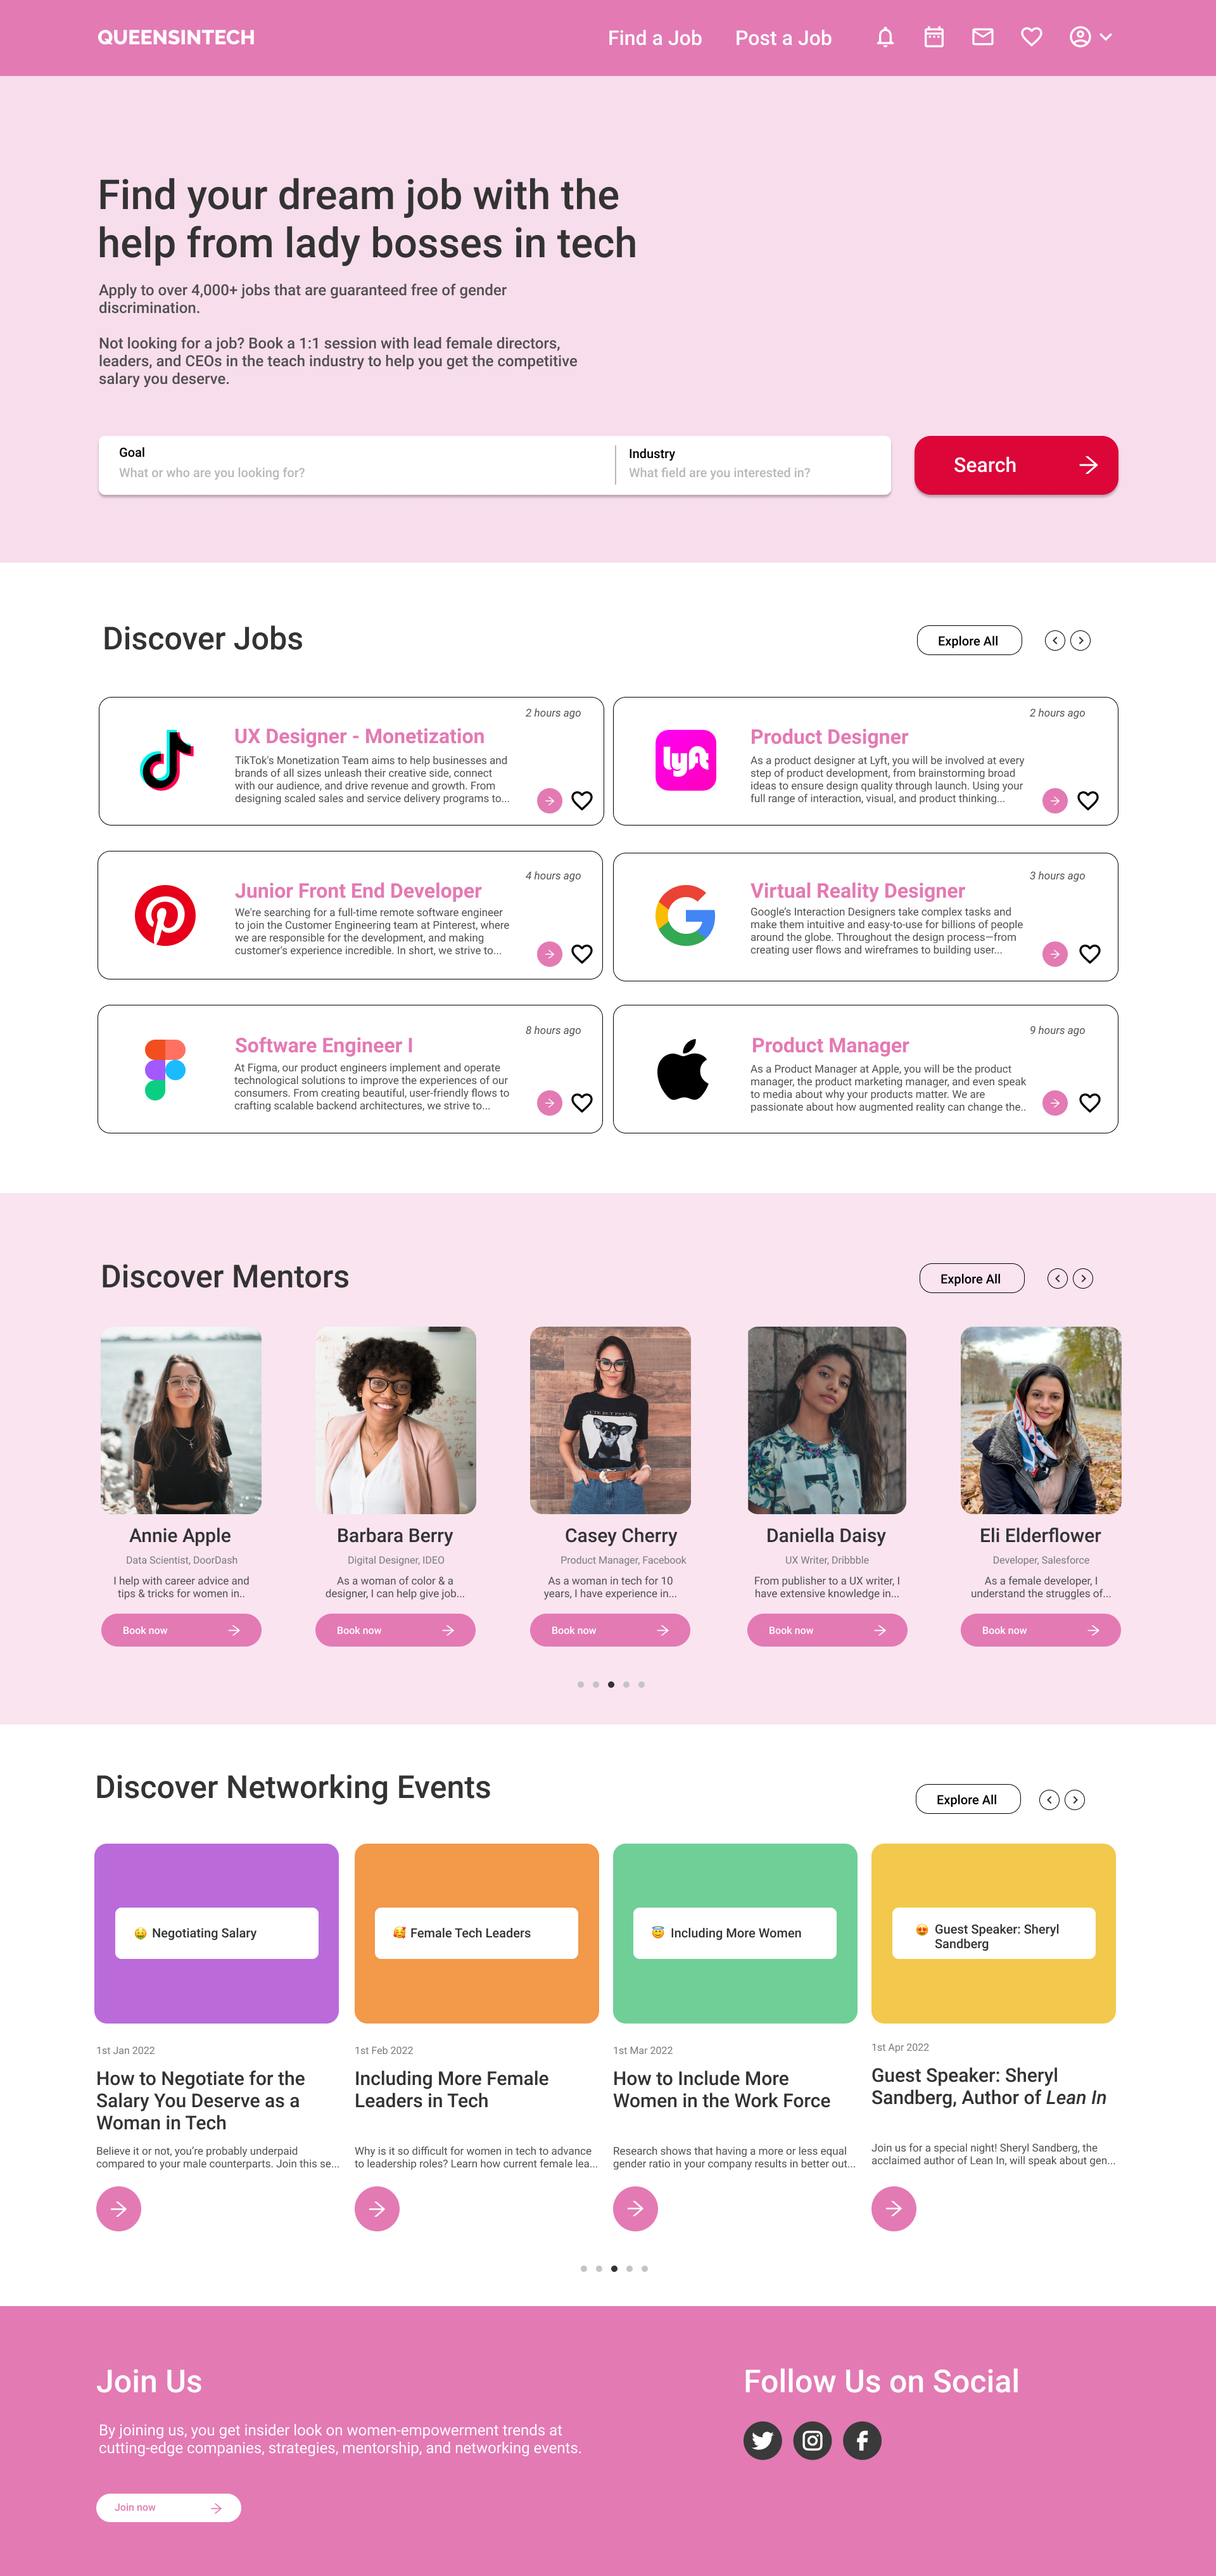
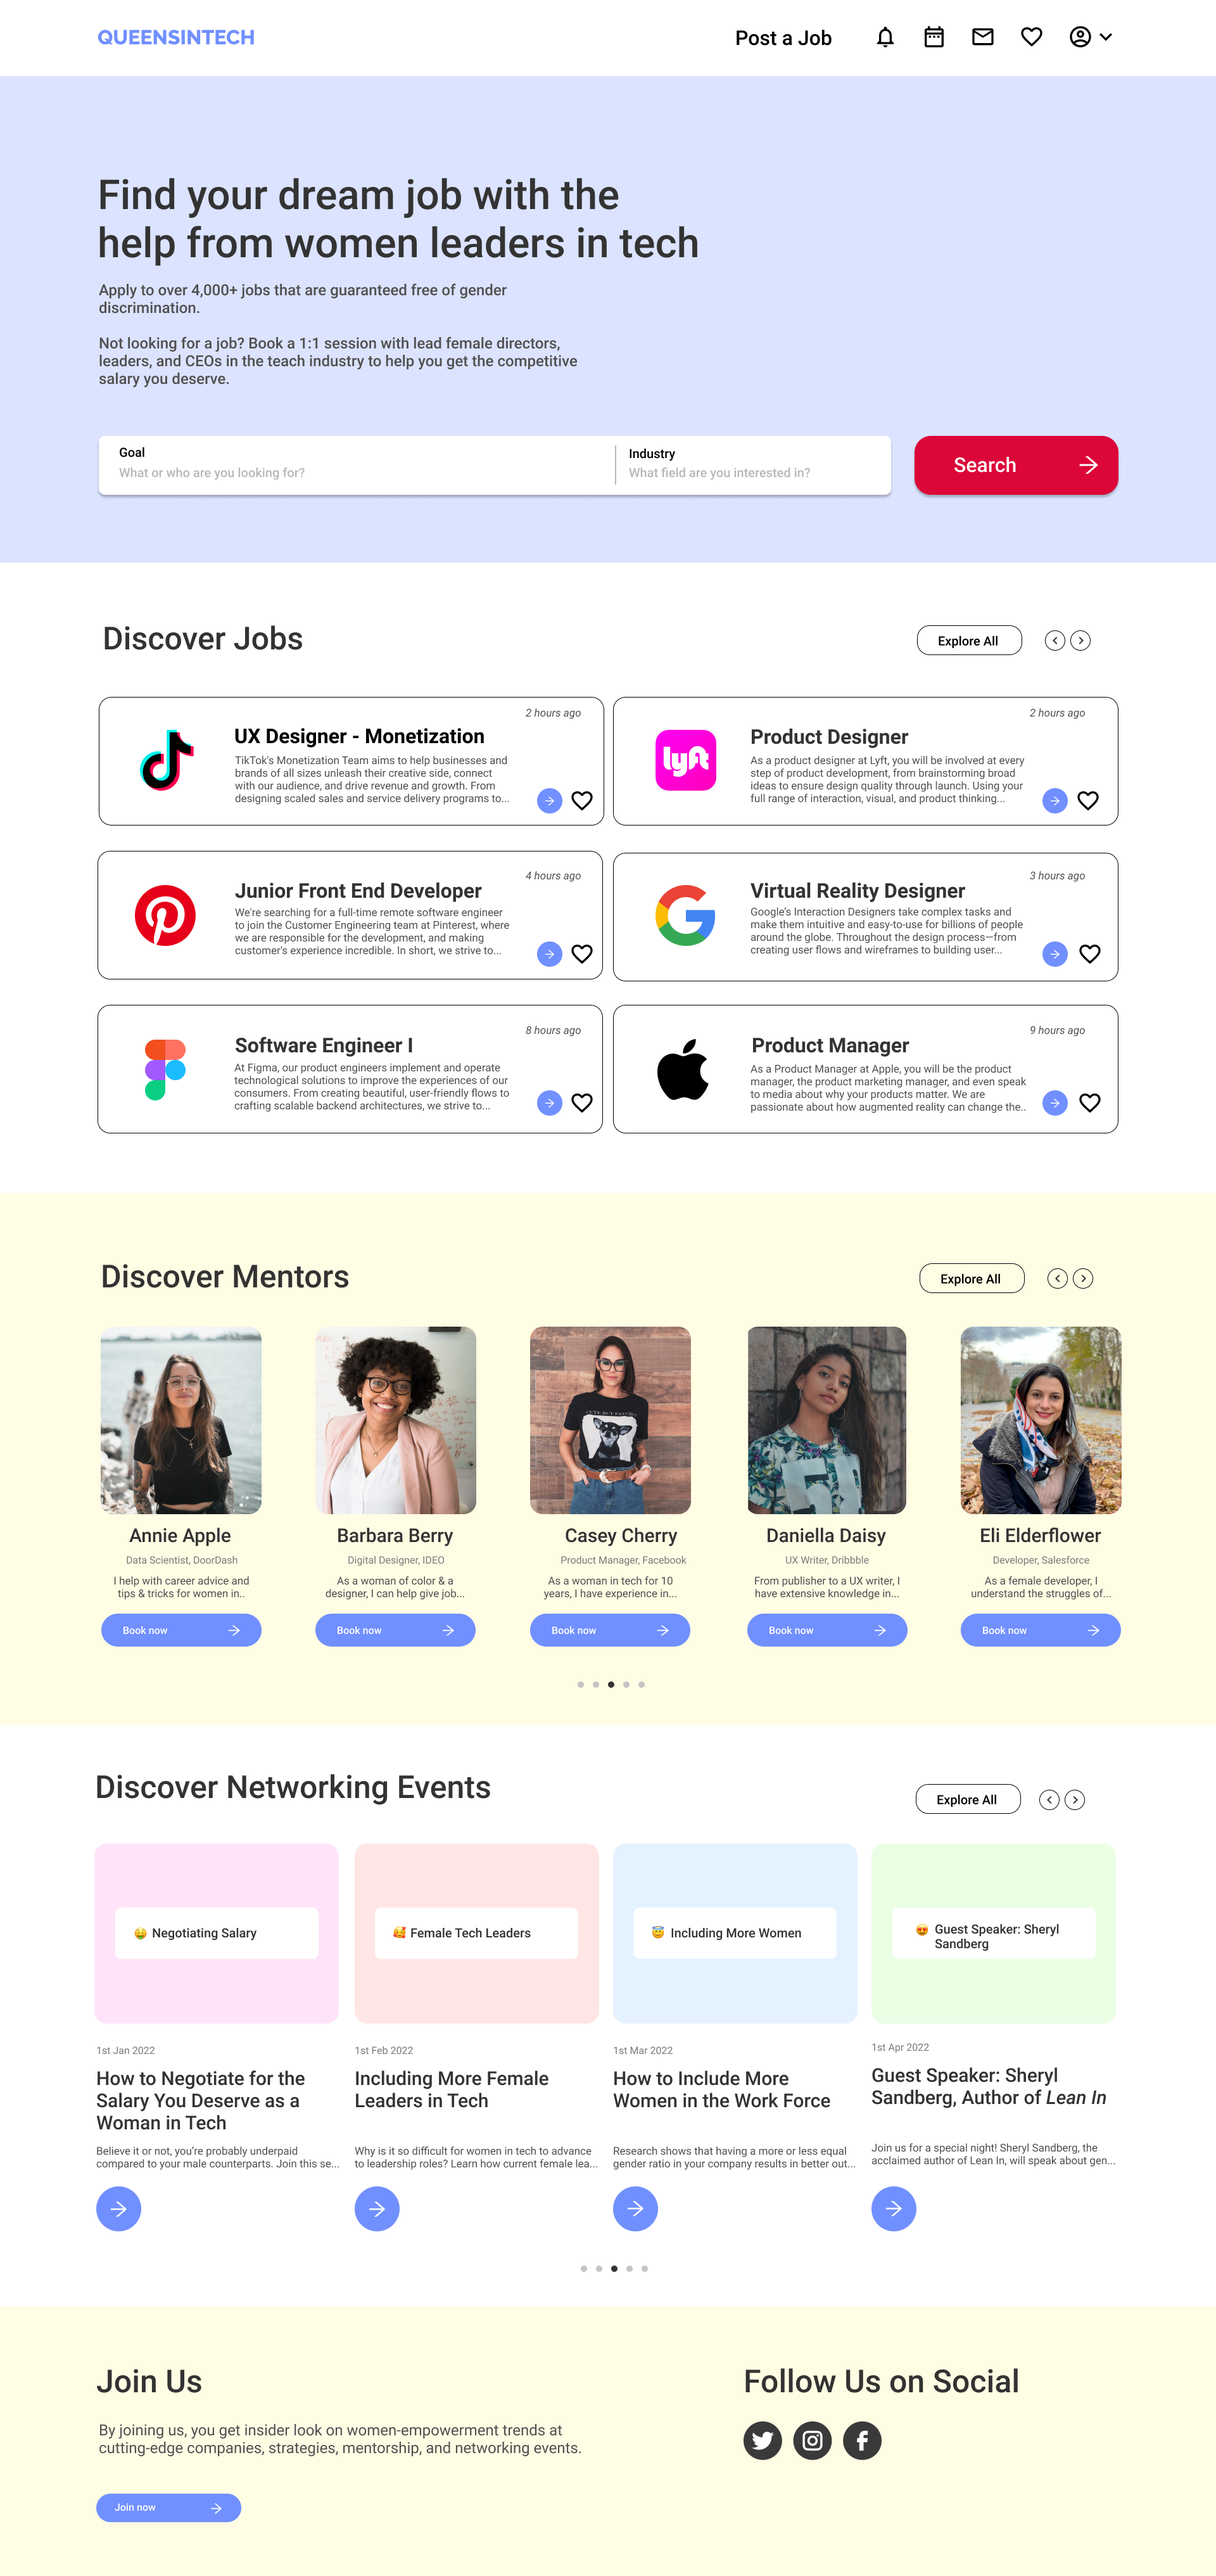
changed prototype

diff --git a/style.css b/style.css
@@ -17,7 +17,7 @@ nav {
   min-height: 10vh;
   font-size: large;
   font-weight: bolder;
-  background: #e37ab4;
+  background: #7190FF;
   justify-content: space-around;
   align-items: center;
 }
